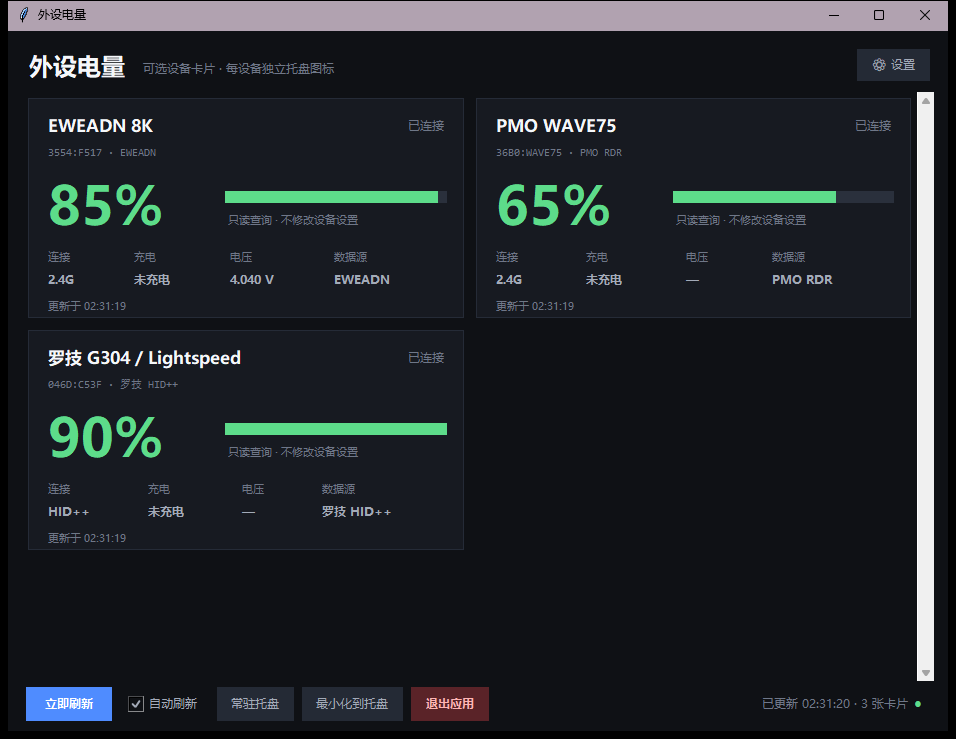
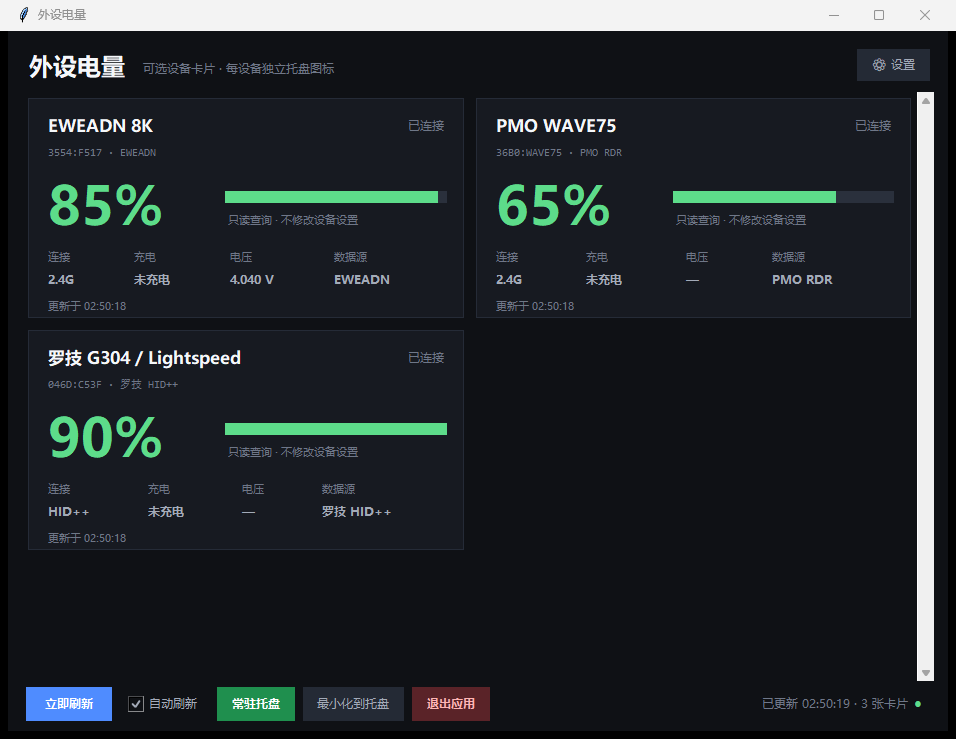
主界面常驻托盘按钮改为绿色，运行中切换为红色退出

diff --git a/battery_panel.py b/battery_panel.py
@@ -261,9 +261,9 @@ class BatteryPanel(tk.Tk):
             command=self._schedule_next).pack(side="left", padx=(14, 0))
         self.tray_btn = tk.Button(
             bar, text="常驻托盘", command=self._toggle_tray,
-            bg="#242a35", fg=SUB, activebackground="#2d3543",
-            activeforeground=TEXT, relief="flat", bd=0,
-            font=("Microsoft YaHei UI", 9), padx=12, pady=5,
+            bg="#1f8f4e", fg="white", activebackground="#2ecc71",
+            activeforeground="white", relief="flat", bd=0,
+            font=("Microsoft YaHei UI", 9, "bold"), padx=12, pady=5,
             cursor="hand2")
         self.tray_btn.pack(side="left", padx=(18, 0))
         tk.Button(
@@ -405,9 +405,15 @@ class BatteryPanel(tk.Tk):
     # ------------------------------------------------------------- 托盘
     def _update_tray_button(self):
         running = tc.is_tray_running()
-        self.tray_btn.configure(text="退出托盘" if running else "常驻托盘")
         if running:
+            self.tray_btn.configure(
+                text="退出托盘", bg="#5a2328", fg="#ffb4b4",
+                activebackground="#7a2d34", activeforeground="white")
             self.status_dot.configure(fg=GREEN)
+        else:
+            self.tray_btn.configure(
+                text="常驻托盘", bg="#1f8f4e", fg="white",
+                activebackground="#2ecc71", activeforeground="white")
 
     def _toggle_tray(self):
         if tc.is_tray_running():
@@ -615,7 +621,7 @@ class SettingsWindow(tk.Toplevel):
         row.pack(fill="x", padx=8, pady=8)
         self.tray_btn = tk.Button(
             row, text="启动常驻托盘", command=self._toggle_tray,
-            bg="#4f8cff", fg="white", relief="flat", bd=0,
+            bg="#1f8f4e", fg="white", relief="flat", bd=0,
             font=("Microsoft YaHei UI", 9, "bold"), padx=12, pady=4,
             cursor="hand2")
         self.tray_btn.pack(side="left")
@@ -751,7 +757,7 @@ class SettingsWindow(tk.Toplevel):
     def _refresh_tray_state(self):
         running = tc.is_tray_running()
         self.tray_btn.configure(text="退出托盘" if running else "启动常驻托盘",
-                                bg="#a33" if running else "#4f8cff")
+                                bg="#a33" if running else "#1f8f4e")
         self.tray_state.configure(text="运行中" if running else "未运行",
                                   fg=GREEN if running else FAINT)
 
